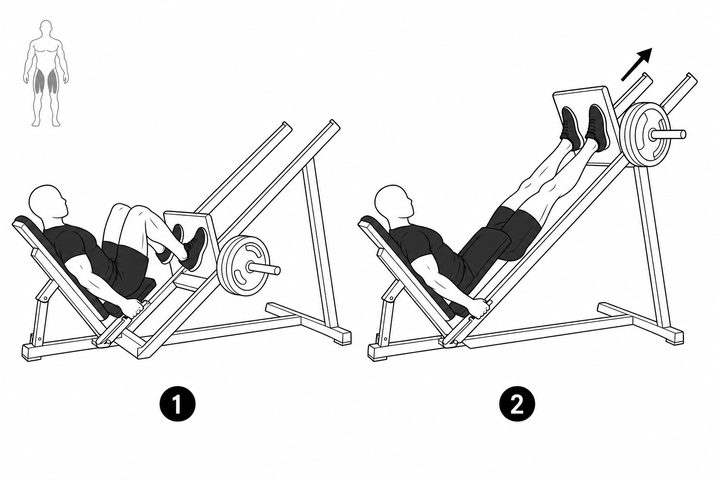
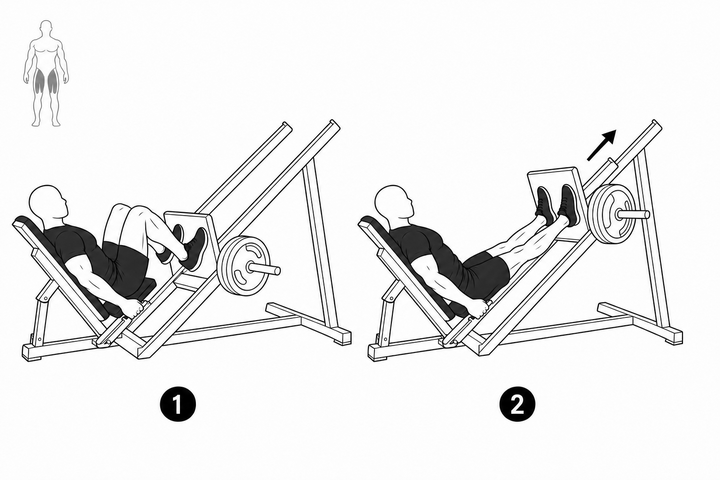
Presse à cuisses : jambes du dessin 2 à la bonne longueur

diff --git a/src/data/exercices.ts b/src/data/exercices.ts
@@ -2017,7 +2017,7 @@ const IMAGES_INTEGREES: Record<string, string> | undefined = (
 /** Version des vignettes : à changer quand des images sont redécoupées. Le
  *  site les fait garder une semaine en cache ; sans elle, les téléphones
  *  montreraient encore les anciennes. */
-const VERSION_IMAGES = 9;
+const VERSION_IMAGES = 10;
 
 /** Chemin public d'une vignette d'exercice (respecte la base Vite). */
 export const cheminImage = (exerciceId: string): string =>
